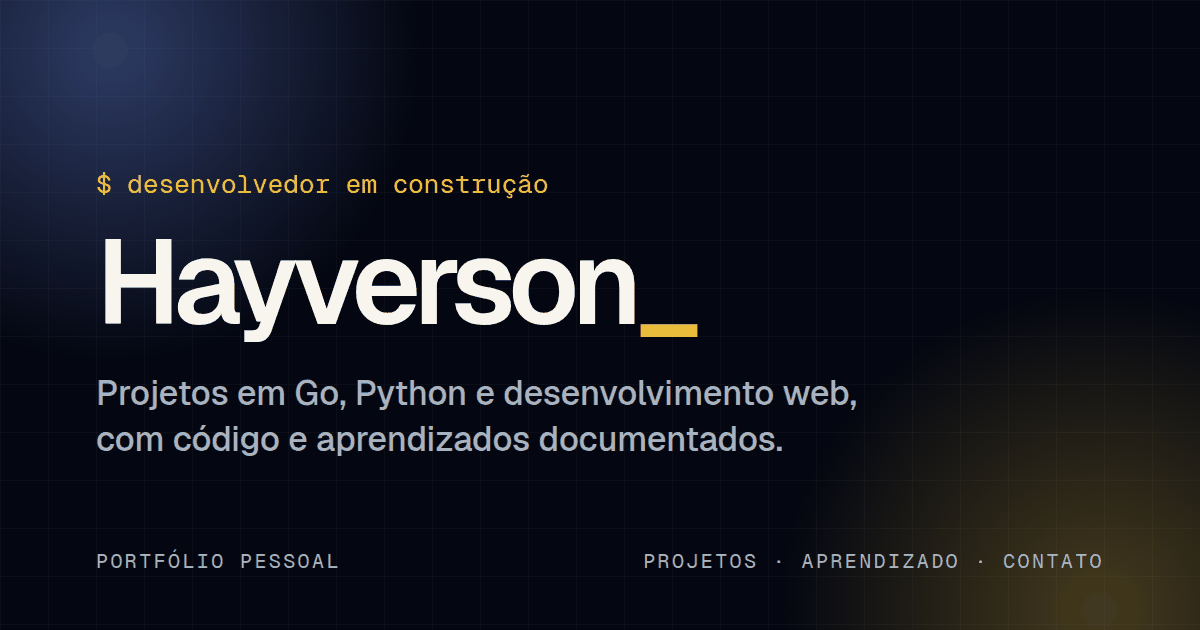
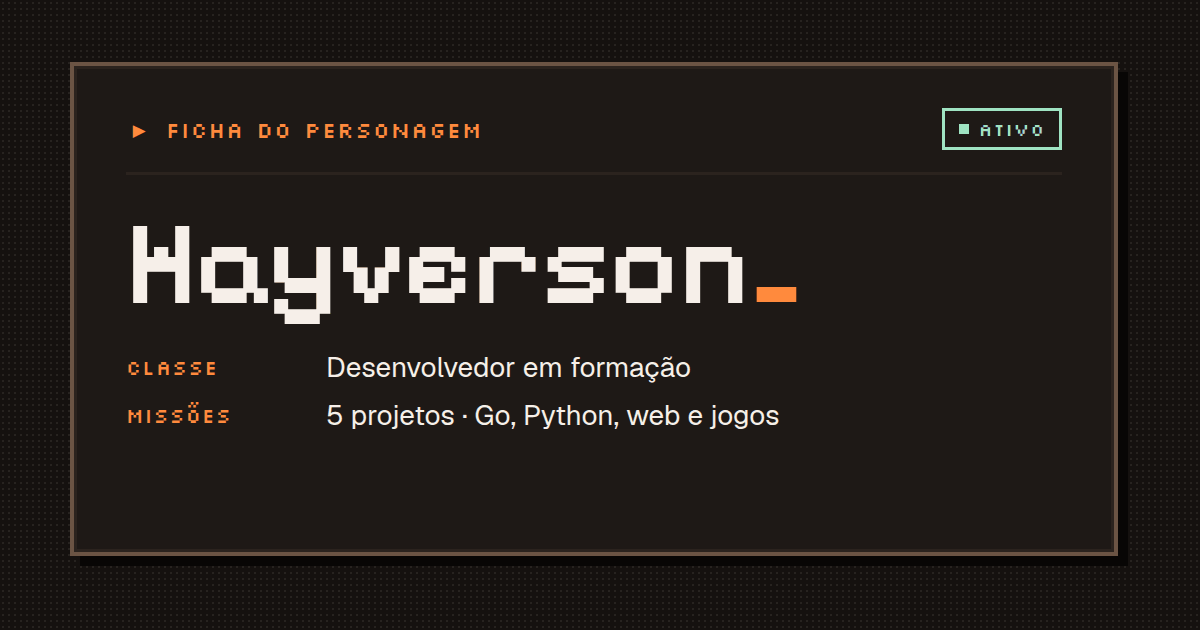
chore: prepara deploy
- favicon em pixel art com o monograma H_ e link no <head>
- imagem de compartilhamento no tema RPG (1200x630, 10 KB)
- URL padrão dos metadados aponta para hayversong.vercel.app

diff --git a/app/layout.tsx b/app/layout.tsx
@@ -28,13 +28,16 @@ const siteUrl =
   process.env.SITE_URL ??
   (process.env.VERCEL_PROJECT_PRODUCTION_URL
     ? `https://${process.env.VERCEL_PROJECT_PRODUCTION_URL}`
-    : 'http://localhost:3000');
+    : 'https://hayversong.vercel.app');
 
 export const metadata: Metadata = {
   metadataBase: new URL(siteUrl),
   title: 'Hayverson | Desenvolvedor em formação',
   description:
     'Portfólio de Hayverson: projetos em Go e desenvolvimento web, decisões técnicas e aprendizados construídos na prática.',
+  icons: {
+    icon: '/favicon.svg',
+  },
   alternates: {
     canonical: '/',
   },
